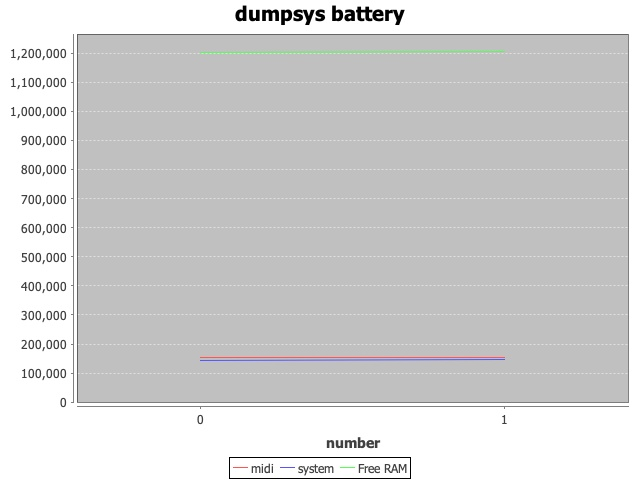
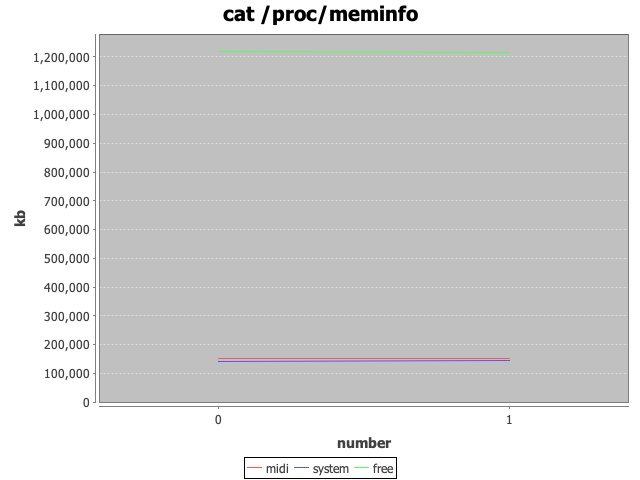
success commit

diff --git a/src/main/java/battery/Getbattery.java b/src/main/java/battery/Getbattery.java
@@ -1,6 +1,7 @@
 package battery;
 
 import utils.HttpclientToDingWebhook;
+import utils.LineChart;
 
 import java.io.BufferedReader;
 import java.io.IOException;
@@ -64,12 +65,7 @@ public class Getbattery {
             HttpclientToDingWebhook.sendResponseToDingWebhook(webhook, text);
             num = num + 1;
             //绘制折线图
-            //  LineChart.getLine(batteryList);
-//            LineChart.LineConfig config = new LineChart.LineConfig();
-//            config.keyList.add("temperature");
-//            config.keyList.add("level");
-//            LineChart.getLine(batteryList,containList);
-            utils.LineChart.getLine(batteryList,containList);
+            LineChart.getLine(batteryList, containList);
 
 
             System.out.println("计数num：" + num);

diff --git a/src/main/java/Main.java b/src/main/java/Main.java
@@ -4,7 +4,7 @@ import java.util.List;
 import java.util.Timer;
 import java.util.TimerTask;
 
-import static memory.GetDumpMemory.getMem;
+import static memory.GetDumpMemory.getDumpMemory;
 
 public class Main {
     private static String devices = "621QEBPQ2CDTH";
@@ -32,7 +32,7 @@ public class Main {
 //                getFlow(flowList,devices,packageName, num);
 
                 try {
-                    getMem(ip, memList, num);
+                    getDumpMemory(ip, memList, num);
                 } catch (IOException e) {
                     e.printStackTrace();
                 }
@@ -40,7 +40,7 @@ public class Main {
                 num = num + 1;
             }
 
-        }, 0, 10000);
+        }, 0, 60000);
 
 
     }

diff --git a/src/main/java/memory/GetDumpMemory.java b/src/main/java/memory/GetDumpMemory.java
@@ -15,7 +15,7 @@ import static utils.Utils.getContainData;
  * @description: TODO
  */
 public class GetDumpMemory {
-    public static void getMem(String ip,List listinfo,int num) throws IOException {
+    public static void getDumpMemory(String ip, List listinfo, int num) throws IOException {
         //定义钉钉机器人url
         String webhook = "https://oapi.dingtalk.com/robot/send?" +
                 "access_token=b324c84816371842cfe590d243898eca1eee7a78d18212c2175db0c6fd914052";

diff --git a/src/main/java/utils/HttpclientToDingWebhook.java b/src/main/java/utils/HttpclientToDingWebhook.java
@@ -20,7 +20,7 @@ import java.io.IOException;
 public class HttpclientToDingWebhook {
     public static void sendResponseToDingWebhook(String webhook, String text) {
         //声明client
-        CloseableHttpClient httpClient = ClientUtil.getDefaultClient();
+        CloseableHttpClient httpClient = HttpClientBuilder.create().build();
 
         // 创建Post请求
         HttpPost httpPost = new HttpPost(webhook);
